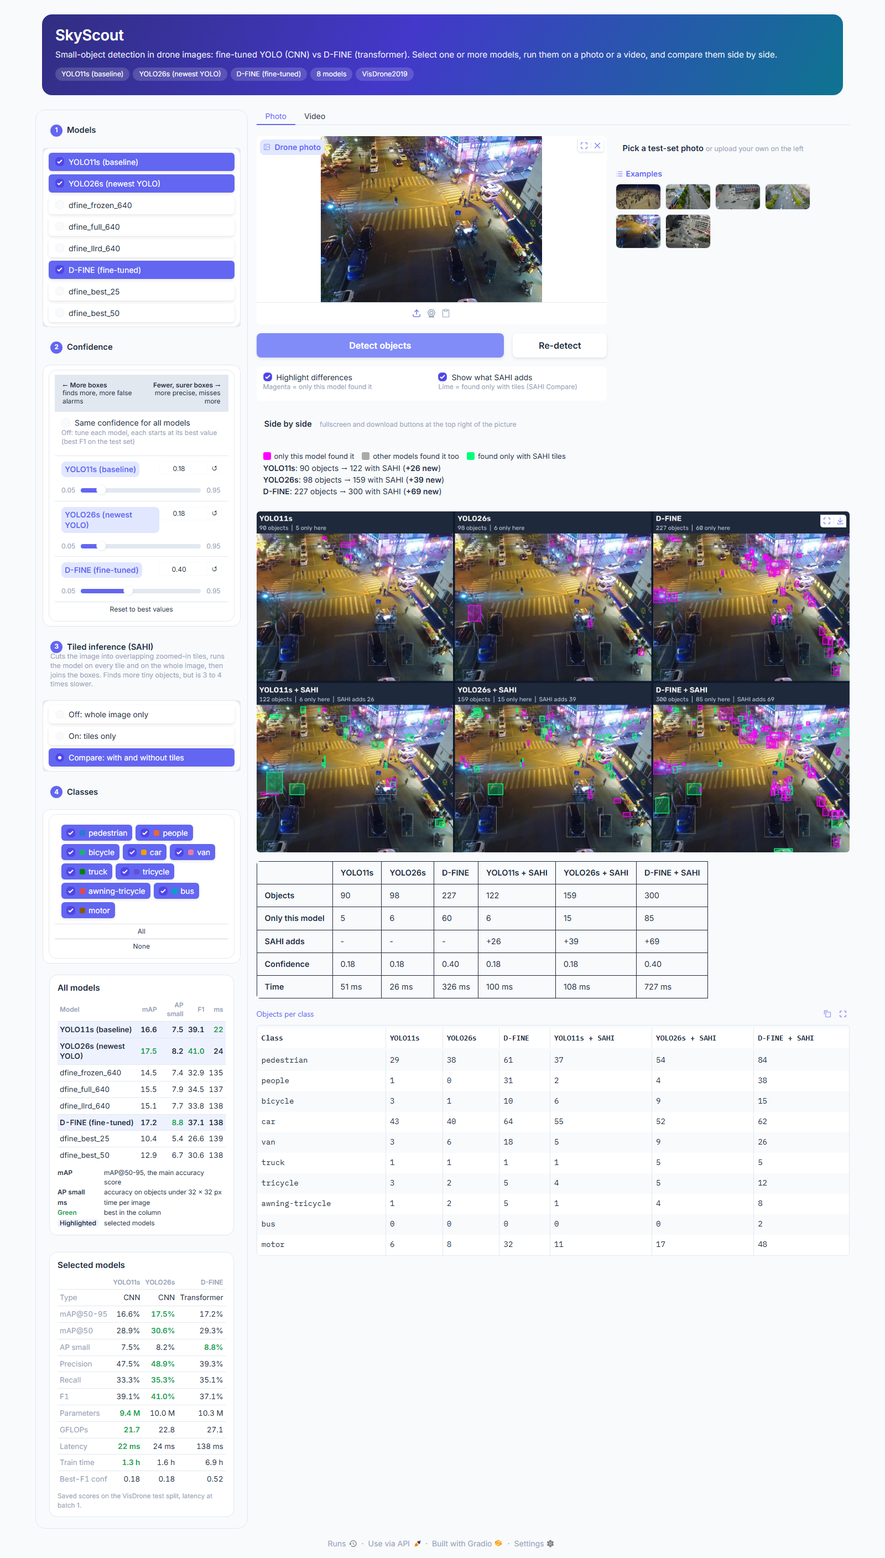
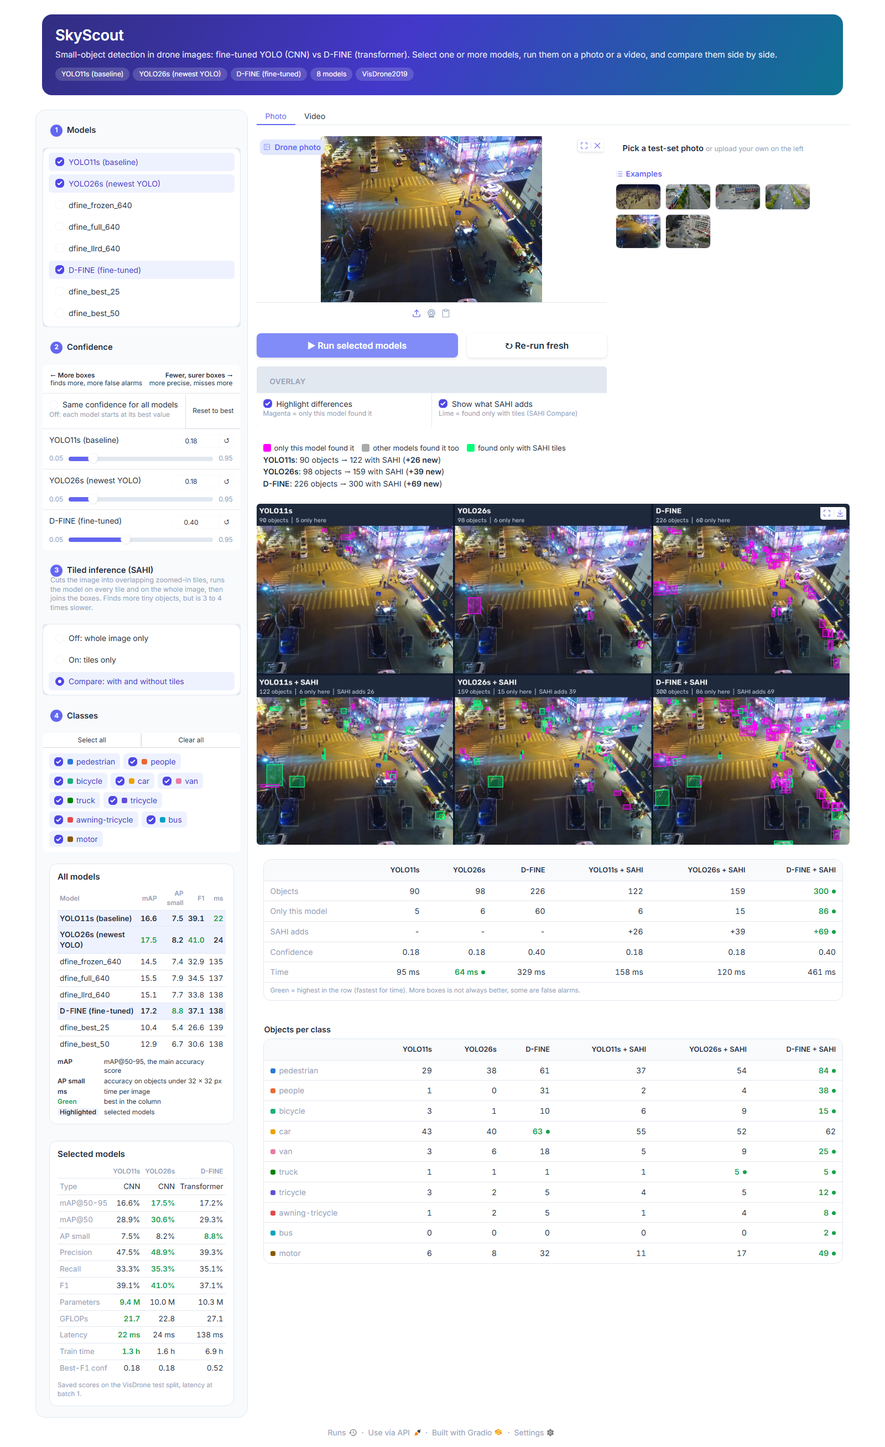
Demo look and feel: single containers, overlay box, result tables with winners
- Confidence and Classes in one container each; Reset to best next to the
  shared-confidence switch, Select all / Clear all above the classes
- Overlay box for the highlight toggles; removed the side-by-side heading
- Result and per-class tables as styled tables, the best model of each row in
  green (highest count, fastest time)
- Buttons renamed: Run selected models / Re-run fresh
- Plain slider and table titles, softer tint for selected choices

diff --git a/skyscout.py b/skyscout.py
@@ -2551,10 +2551,19 @@ def compose_grid(img, runs_f, models, variants, highlight, show_sahi, width):
     return np.vstack([x for r in rows for x in (r, sep)][:-1]), uniq, added
 
 
-def stats_markdown(cols, rows):
-    '''Transposed table: one column per run (same order as the tiles), one row per measure.'''
-    head = '| | ' + ' | '.join(cols) + ' |\n|---|' + '---|' * len(cols) + '\n'
-    return head + ''.join(f'| **{name}** | ' + ' | '.join(vals) + ' |\n' for name, vals in rows)
+def results_html(cols, rows, note=''):
+    '''Table with one column per run (same order as the tiles) and one row per measure. rows = (name, shown values,
+    numbers, 'max' or 'min' or None); the best run of a row is highlighted when there is more than one run.'''
+    head = '<tr><th></th>' + ''.join(f'<th>{c}</th>' for c in cols) + '</tr>'
+    body = ''
+    for name, shown, nums, better in rows:
+        ok = [x for x in nums if x is not None] if nums else []
+        best = (max(ok) if better == 'max' else min(ok)) if better and len(ok) > 1 and len(set(ok)) > 1 else None
+        cells = ''.join(f'<td class="{"win" if best is not None and x == best else ""}">{v}</td>'
+                        for v, x in zip(shown, nums or [None] * len(shown)))
+        body += f'<tr><td>{name}</td>{cells}</tr>'
+    tail = f'<div class="sk-note">{note}</div>' if note else ''
+    return f'<div class="sk-res"><table>{head}{body}</table>{tail}</div>'
 
 
 def iter_frames(video, stride, limit):
@@ -2631,6 +2640,26 @@ table.sk-abbr td.best {color: #16a34a}
 .sk-pick {font-weight: 650; font-size: .92rem; margin: 2px 0 4px}
 .sk-pick span {font-weight: 400; font-size: .78rem; color: var(--body-text-color-subdued)}
 .sk-actions button {min-height: 44px}
+.sk-subtitle {font-weight: 650; font-size: .85rem; padding: 8px 12px 0; letter-spacing: .02em; text-transform: uppercase;
+              color: var(--body-text-color-subdued)}
+/* result tables: soft rows, one column per model, the best model of each row in a green pill */
+.sk-res {border: 1px solid var(--border-color-primary); border-radius: 14px; overflow-x: auto; background: var(--block-background-fill)}
+.sk-res table {width: 100%; border-collapse: collapse; font-size: .88rem; margin: 0; border: 0 !important}
+.sk-res tr {border: 0 !important}
+.sk-res th {padding: 10px 12px; text-align: right; font-weight: 650; font-size: .8rem; border: 0 !important;
+            background: var(--background-fill-secondary); white-space: nowrap}
+.sk-res td {padding: 8px 12px; text-align: right; border: 0 !important; border-top: 1px solid var(--border-color-primary) !important;
+            font-variant-numeric: tabular-nums}
+.sk-res th:first-child, .sk-res td:first-child {text-align: left; color: var(--body-text-color-subdued); font-weight: 500}
+.sk-res tr:hover td {background: var(--background-fill-secondary)}
+.sk-res td.win {color: #16a34a; font-weight: 700}
+.sk-res td.win::after {content: ''; display: inline-block; width: 7px; height: 7px; margin-left: 6px; border-radius: 50%;
+                       background: #16a34a; vertical-align: 1px}
+.sk-res .sk-note {padding: 6px 12px 9px; margin: 0; border-top: 1px solid var(--border-color-primary)}
+.sk-res-title {font-weight: 650; font-size: .9rem; margin: 6px 2px 6px}
+.sk-dot {display: inline-block; width: 9px; height: 9px; border-radius: 3px; margin-right: 7px; vertical-align: 0}
+#sk-conf .block {background: var(--block-background-fill)}
+#sk-conf input[type=range] {accent-color: var(--color-accent)}
 '''
 # one colored square per class in the class filter, same colors as the boxes
 DEMO_CSS += ''.join(f'#sk-classes label:nth-child({k + 1}) span::before {{content: ""; display: inline-block; width: 10px; '
@@ -2673,6 +2702,7 @@ def launch_demo(name=None, share=None):
     mains = [n for n in CFG['report']['main_models'] if n in choices]
     default = [name] if name else (mains or choices[:1])
     stride, limit = max(1, dc['video_stride']), dc['video_max_frames']
+    RUN, RERUN = '▶ Run selected models', '↻ Re-run fresh'
     sahi_modes = [('Off: whole image only', 'Off'), ('On: tiles only', 'On'), ('Compare: with and without tiles', 'Compare')]
     warm = set()
 
@@ -2706,42 +2736,53 @@ def launch_demo(name=None, share=None):
                  f'(<b>+{int(added[(m, True)].sum())} new</b>)' for m in models if (m, True) in added]
         return '<div class="sk-sum">' + '<br>'.join(lines) + '</div>' if lines else ''
 
-    def class_rows(cols, per_run, kind):
+    def class_html(cols, per_run, kind, title):
+        '''Objects per class, one column per run, the run that found the most of a class highlighted.'''
         rows = []
         for k, n in enumerate(NAMES):
-            vals = [per_run[c][k] for c in cols]
-            if any(vals):
-                rows.append([n] + [round(v, 1) if kind == 'avg' else int(v) for v in vals])
-        return pd.DataFrame(rows, columns=['Class'] + cols)
+            nums = [float(per_run[c][k]) for c in cols]
+            if any(nums):
+                shown = [f'{x:.1f}' if kind == 'avg' else str(int(x)) for x in nums]
+                rows.append((f'<i class="sk-dot" style="background:{BOX_COLORS[k]}"></i>{n}', shown, nums, 'max'))
+        if not rows:
+            return ''
+        return f'<div class="sk-res-title">{title}</div>' + results_html(cols, rows)
 
-    def need_run(what):
-        return f'<div class="sk-sum">New settings: click <b>{what}</b> to run them. Settings you already ran show up right away.</div>'
+    def need_run():
+        return (f'<div class="sk-sum">New settings: click <b>{RUN}</b> to run them. '
+                'Settings you already ran show up right away.</div>')
 
     # Photo
 
     def photo_view(image, state, models, mode, classes, highlight, show_sahi, same, shared, *vals):
         if image is None or not models:
-            return None, '', None, '<div class="sk-sum">Pick a photo and at least one model, then click <b>Detect objects</b>.</div>'
+            return None, '', '', f'<div class="sk-sum">Pick a photo and at least one model, then click <b>{RUN}</b>.</div>'
         confs = conf_map(models, same, shared, vals)
         keys = cache_keys(models, mode, confs)
         runs = (state or {}).get('runs', {})
         if any(k not in runs for k in keys):
-            return None, '', None, need_run('Detect objects')
+            return None, '', '', need_run()
         variants = run_variants(mode)
         runs_f = {(m, v): keep_classes(runs[(m, v, c)]['d'], classes) for m, v, c in keys}
         width = {1: 1400, 2: 1000, 3: 820}.get(len(models), 640)
         grid, uniq, added = compose_grid(image, runs_f, models, variants, highlight, show_sahi, width)
         order = [(m, v) for m, v, _ in keys]
         cols = [short_label(*k) for k in order]
-        rows = [('Objects', [str(len(runs_f[k][0])) for k in order])]
+        objs = [len(runs_f[k][0]) for k in order]
+        rows = [('Objects', [str(x) for x in objs], objs, 'max')]
         if uniq:
-            rows.append(('Only this model', [str(int(uniq[k].sum())) if k in uniq else '-' for k in order]))
+            u = [int(uniq[k].sum()) if k in uniq else None for k in order]
+            rows.append(('Only this model', [str(x) if x is not None else '-' for x in u], u, 'max'))
         if added:
-            rows.append(('SAHI adds', [f'+{int(added[k].sum())}' if k in added else '-' for k in order]))
-        rows += [('Confidence', [f'{c:.2f}' for _, _, c in keys]), ('Time', [f'{runs[k]["ms"]:.0f} ms' for k in keys])]
+            a = [int(added[k].sum()) if k in added else None for k in order]
+            rows.append(('SAHI adds', [f'+{x}' if x is not None else '-' for x in a], a, 'max'))
+        ms = [runs[k]['ms'] for k in keys]
+        rows += [('Confidence', [f'{c:.2f}' for _, _, c in keys], None, None),
+                 ('Time', [f'{x:.0f} ms' for x in ms], ms, 'min')]
         per_run = {short_label(m, v): np.bincount(runs_f[(m, v)][2], minlength=NC) for m, v in order}
         info = color_key(uniq, added, show_sahi) + sahi_summary(models, runs_f, added)
-        return grid, stats_markdown(cols, rows), class_rows(cols, per_run, 'count'), info
+        note = 'Green = highest in the row (fastest for time). More boxes is not always better, some are false alarms.'
+        return grid, results_html(cols, rows, note), class_html(cols, per_run, 'count', 'Objects per class'), info
 
     def on_photo(force, image, models, mode, classes, highlight, show_sahi, state, same, shared, *vals, progress=gr.Progress()):
         if image is not None and models:
@@ -2760,12 +2801,12 @@ def launch_demo(name=None, share=None):
 
     def video_view(video, vstate, models, mode, classes, highlight, show_sahi, same, shared, *vals, progress=gr.Progress()):
         if not video or not models:
-            return None, '', None, None, f'<div class="sk-sum">Pick a video and at least one model, then click <b>Detect objects</b>. At most {limit} frames are used.</div>'
+            return None, '', '', None, f'<div class="sk-sum">Pick a video and at least one model, then click <b>{RUN}</b>. At most {limit} frames are used.</div>'
         confs = conf_map(models, same, shared, vals)
         keys = cache_keys(models, mode, confs)
         runs = (vstate or {}).get('runs', {})
         if any(k not in runs for k in keys):
-            return None, '', None, None, need_run('Detect objects')
+            return None, '', '', None, need_run()
         # a finished side-by-side video is reused when the same settings come back
         rkey = (tuple(keys), tuple(classes or []), bool(highlight), bool(show_sahi))
         if rkey in vstate.get('renders', {}) and Path(vstate['renders'][rkey][0]).exists():
@@ -2802,21 +2843,28 @@ def launch_demo(name=None, share=None):
         for old in sorted(out_dir.glob('*_compare_*.mp4'), key=os.path.getmtime)[:-12]:
             with contextlib.suppress(OSError):
                 old.unlink()
-        ms = {c: np.mean(runs[k]['ms']) for k, c in zip(keys, cols)}
-        rows = [('Avg objects per frame', [f'{np.mean(counts[c]):.1f}' for c in cols]),
-                ('Max in one frame', [str(max(counts[c])) for c in cols])]
+        ms = [float(np.mean(runs[k]['ms'])) for k in keys]
+        avg = [float(np.mean(counts[c])) for c in cols]
+        mx = [max(counts[c]) for c in cols]
+        rows = [('Avg objects per frame', [f'{x:.1f}' for x in avg], avg, 'max'),
+                ('Max in one frame', [str(x) for x in mx], mx, 'max')]
         if any(only.values()):
-            rows.append(('Only this model (avg)', [f'{np.mean(only[c]):.1f}' if only[c] else '-' for c in cols]))
+            u = [float(np.mean(only[c])) if only[c] else None for c in cols]
+            rows.append(('Only this model (avg)', [f'{x:.1f}' if x is not None else '-' for x in u], u, 'max'))
         if any(adds.values()):
-            rows.append(('SAHI adds (avg)', [f'+{np.mean(adds[c]):.1f}' if adds[c] else '-' for c in cols]))
-        rows += [('Confidence', [f'{c:.2f}' for _, _, c in keys]),
-                 ('Time per frame', [f'{ms[c]:.0f} ms' for c in cols]), ('Speed', [f'{1000 / ms[c]:.1f} FPS' for c in cols])]
-        table = class_rows(cols, {c: per_class[c] / max(n, 1) for c in cols}, 'avg')
+            a = [float(np.mean(adds[c])) if adds[c] else None for c in cols]
+            rows.append(('SAHI adds (avg)', [f'+{x:.1f}' if x is not None else '-' for x in a], a, 'max'))
+        fps_ = [1000 / x for x in ms]
+        rows += [('Confidence', [f'{c:.2f}' for _, _, c in keys], None, None),
+                 ('Time per frame', [f'{x:.0f} ms' for x in ms], ms, 'min'),
+                 ('Speed', [f'{x:.1f} FPS' for x in fps_], fps_, 'max')]
+        table = class_html(cols, {c: per_class[c] / max(n, 1) for c in cols}, 'avg', 'Objects per class (average per frame)')
         uniq_any = {k: 1 for k in order if only[short_label(*k)]}
         added_any = {k: 1 for k in order if adds[short_label(*k)]}
         info = color_key(uniq_any, added_any, show_sahi) + \
             f'<div class="sk-sum">{n} frames. Counts are per frame, the same object in two frames counts twice.</div>'
-        out = (str(out_path), stats_markdown(cols, rows), table, pd.DataFrame(plot), info)
+        note = 'Green = highest in the row (fastest for time). More boxes is not always better, some are false alarms.'
+        out = (str(out_path), results_html(cols, rows, note), table, pd.DataFrame(plot), info)
         vstate.setdefault('renders', {})[rkey] = out
         return out
 
@@ -2863,25 +2911,26 @@ def launch_demo(name=None, share=None):
                 models = gr.CheckboxGroup([(demo_label(n), n) for n in choices], value=default, show_label=False,
                                           elem_id='sk-models', elem_classes='sk-box')
                 gr.HTML('<div class="sk-step"><b>2</b>Confidence</div>')
-                with gr.Group(elem_classes='sk-box'):
+                with gr.Group(elem_id='sk-conf'):
                     gr.HTML('<div class="sk-scale"><span>&larr; <b>More boxes</b><br>finds more, more false alarms</span>'
                             '<span><b>Fewer, surer boxes</b> &rarr;<br>more precise, misses more</span></div>')
-                    same = gr.Checkbox(value=False, label='Same confidence for all models',
-                                       info='Off: tune each model, each starts at its best value (best F1 on the test set)')
+                    with gr.Row(equal_height=True):
+                        same = gr.Checkbox(value=False, label='Same confidence for all models', scale=3,
+                                           info='Off: each model starts at its best value')
+                        reset = gr.Button('Reset to best', size='sm', scale=1, min_width=90)
                     shared = gr.Slider(0.05, 0.95, value=best_conf(default[0]), step=0.01, label='All models', visible=False)
                     sliders = [gr.Slider(0.05, 0.95, value=best_conf(n), step=0.01, label=demo_label(n), visible=n in default)
                                for n in choices]
-                    reset = gr.Button('Reset to best values', size='sm')
                 gr.HTML('<div class="sk-step"><b>3</b>Tiled inference (SAHI)</div>'
                         '<div class="sk-desc">Cuts the image into overlapping zoomed-in tiles, runs the model on every tile '
                         'and on the whole image, then joins the boxes. Finds more tiny objects, but is 3 to 4 times slower.</div>')
                 sahi_mode = gr.Radio(sahi_modes, value='Off', show_label=False, elem_id='sk-sahi', elem_classes='sk-box')
                 gr.HTML('<div class="sk-step"><b>4</b>Classes</div>')
-                with gr.Group(elem_classes='sk-box'):
-                    classes = gr.CheckboxGroup(NAMES, value=NAMES, show_label=False, elem_id='sk-classes')
+                with gr.Group():
                     with gr.Row():
-                        all_btn = gr.Button('All', size='sm')
-                        none_btn = gr.Button('None', size='sm')
+                        all_btn = gr.Button('Select all', size='sm')
+                        none_btn = gr.Button('Clear all', size='sm')
+                    classes = gr.CheckboxGroup(NAMES, value=NAMES, show_label=False, elem_id='sk-classes')
                 table_html = gr.HTML(models_table_html(choices, default))
                 card = gr.HTML(selected_table_html(default))
             with gr.Column(scale=3):
@@ -2891,41 +2940,43 @@ def launch_demo(name=None, share=None):
                         with gr.Column(scale=3):
                             img_in = gr.Image(type='numpy', label='Drone photo', height=340)
                             with gr.Row(elem_classes='sk-actions'):
-                                img_btn = gr.Button('Detect objects', variant='primary', scale=3)
-                                img_redo = gr.Button('Re-detect', variant='secondary', scale=1)
-                            with gr.Row():
-                                p_high = gr.Checkbox(label='Highlight differences', info='Magenta = only this model found it')
-                                p_sahi = gr.Checkbox(label='Show what SAHI adds', info='Lime = found only with tiles (SAHI Compare)')
+                                img_btn = gr.Button(RUN, variant='primary', scale=3)
+                                img_redo = gr.Button(RERUN, variant='secondary', scale=2)
+                            with gr.Group():
+                                gr.HTML('<div class="sk-subtitle">Overlay</div>')
+                                with gr.Row():
+                                    p_high = gr.Checkbox(label='Highlight differences', info='Magenta = only this model found it')
+                                    p_sahi = gr.Checkbox(label='Show what SAHI adds', info='Lime = found only with tiles (SAHI Compare)')
                         with gr.Column(scale=2):
                             gr.HTML('<div class="sk-pick">Pick a test-set photo <span>or upload your own on the left</span></div>')
                             if img_examples:
                                 gr.Examples(img_examples, inputs=[img_in], label=None, examples_per_page=12)
-                    gr.HTML('<div class="sk-step">Side by side <span class="sk-hint">fullscreen and download buttons at the top right of the picture</span></div>')
-                    p_info = gr.HTML('<div class="sk-sum">Pick a photo and at least one model, then click <b>Detect objects</b>.</div>')
+                    p_info = gr.HTML(f'<div class="sk-sum">Pick a photo and at least one model, then click <b>{RUN}</b>.</div>')
                     p_grid = gr.Image(show_label=False, interactive=False, buttons=['fullscreen', 'download'])
-                    p_stats = gr.Markdown(elem_id='sk-stats')
-                    p_table = gr.Dataframe(label='Objects per class', interactive=False)
+                    p_stats = gr.HTML()
+                    p_table = gr.HTML()
                 with gr.Tab('Video'):
                     vstate = gr.State({})
                     with gr.Row(equal_height=False):
                         with gr.Column(scale=3):
                             vid_in = gr.Video(label='Drone video', height=340, elem_classes='sk-sync')
                             with gr.Row(elem_classes='sk-actions'):
-                                vid_btn = gr.Button('Detect objects', variant='primary', scale=3)
-                                vid_redo = gr.Button('Re-detect', variant='secondary', scale=1)
-                            with gr.Row():
-                                v_high = gr.Checkbox(label='Highlight differences', info='Magenta = only this model found it')
-                                v_sahi = gr.Checkbox(label='Show what SAHI adds', info='Lime = found only with tiles (SAHI Compare)')
+                                vid_btn = gr.Button(RUN, variant='primary', scale=3)
+                                vid_redo = gr.Button(RERUN, variant='secondary', scale=2)
+                            with gr.Group():
+                                gr.HTML('<div class="sk-subtitle">Overlay</div>')
+                                with gr.Row():
+                                    v_high = gr.Checkbox(label='Highlight differences', info='Magenta = only this model found it')
+                                    v_sahi = gr.Checkbox(label='Show what SAHI adds', info='Lime = found only with tiles (SAHI Compare)')
                         with gr.Column(scale=2):
                             gr.HTML('<div class="sk-pick">Pick a sample video <span>or upload your own on the left</span></div>')
                             if videos:
                                 gr.Examples([[str(v)] for v in videos], inputs=[vid_in], label=None)
-                    gr.HTML('<div class="sk-step">Side by side <span class="sk-hint">plays and seeks together with the original, fullscreen in the player</span></div>')
-                    v_info = gr.HTML(f'<div class="sk-sum">Pick a video and at least one model, then click <b>Detect objects</b>. At most {limit} frames are used.</div>')
+                    v_info = gr.HTML(f'<div class="sk-sum">Pick a video and at least one model, then click <b>{RUN}</b>. At most {limit} frames are used.</div>')
                     vid_out = gr.Video(show_label=False, interactive=False, elem_classes='sk-sync', buttons=['download'])
-                    v_stats = gr.Markdown(elem_id='sk-stats')
-                    with gr.Row():
-                        v_table = gr.Dataframe(label='Objects per class (average per frame)', interactive=False)
+                    v_stats = gr.HTML()
+                    with gr.Row(equal_height=False):
+                        v_table = gr.HTML()
                         v_plot = gr.LinePlot(x='time_s', y='count', color='run', label='Objects per frame',
                                              x_title='Time (s)', y_title='Count')
 
@@ -2979,6 +3030,13 @@ def launch_demo(name=None, share=None):
     _DEMO.append(app)
     theme = gr.themes.Soft(primary_hue='indigo', secondary_hue='cyan', neutral_hue='slate', radius_size='lg',
                            font=[gr.themes.GoogleFont('Inter'), 'ui-sans-serif', 'system-ui', 'sans-serif'])
+    # plain titles and a light tint for selected choices instead of solid purple chips
+    theme = theme.set(block_title_background_fill='none', block_title_padding='0', block_title_text_color='*body_text_color',
+                      block_title_text_color_dark='*body_text_color', block_title_text_weight='500',
+                      checkbox_label_background_fill_selected='*primary_50', checkbox_label_text_color_selected='*primary_700',
+                      checkbox_label_border_color_selected='*primary_300', checkbox_label_background_fill_selected_dark='*primary_950',
+                      checkbox_label_text_color_selected_dark='*primary_100', checkbox_label_border_color_selected_dark='*primary_500',
+                      checkbox_label_shadow='none')
     # Recommended: on the server keep the default address and open it through an SSH tunnel
     return app.launch(share=share, server_port=dc['server_port'], theme=theme, css=DEMO_CSS, head=SYNC_JS,
                       allowed_paths=[str(data_dir()), str(DOWNLOADS / 'samples'), str(SAMPLES), str(RESULTS)])

diff --git a/README.md b/README.md
@@ -278,12 +278,12 @@ flowchart LR
 ```
 
 - **1 Models:** tick one or more. One click runs all of them.
-- **2 Confidence:** one slider per selected model, each starting at that model's best value (best F1 on the test set, the score scales differ between models). Tick **Same confidence for all models** for one shared slider, **Reset to best values** puts them back. Left = more boxes (finds more, more false alarms), right = fewer, surer boxes (more precise, misses more).
+- **2 Confidence:** one slider per selected model, each starting at that model's best value (best F1 on the test set, the score scales differ between models). Tick **Same confidence for all models** for one shared slider, **Reset to best** puts them back. Left = more boxes (finds more, more false alarms), right = fewer, surer boxes (more precise, misses more).
 - **3 Tiled inference (SAHI):** cuts the image into overlapping zoomed-in tiles, runs the model on each tile and on the whole image, then joins the boxes. Off, on, or **Compare**, which runs every model with and without tiles (second row of the picture).
 - **4 Classes:** the box colors. Turn classes off to hide them everywhere (pictures, counts, comparisons) without running the models again.
 - Under the settings: a table of all models (best value per column in green) and every score of the selected models side by side.
-- **Side by side:** one column per model, a label above each window ("D-FINE + SAHI: 107 objects | 17 only here | SAHI adds 25") and a table below with one column per model in the same order. Fullscreen and download buttons sit at the top right of the picture (the video player has its own fullscreen).
-- **Saved results:** every result is kept per model, SAHI setting and confidence. Going back to a setting you already ran shows it at once (also the drawn video), only new settings need **Detect objects**. **Re-detect** runs everything again.
+- **Side by side:** one column per model, a label above each window ("D-FINE + SAHI: 107 objects | 17 only here | SAHI adds 25") and a table below with one column per model in the same order, the best model of each row in green. Fullscreen and download buttons sit at the top right of the picture (the video player has its own fullscreen).
+- **Saved results:** every result is kept per model, SAHI setting and confidence. Going back to a setting you already ran shows it at once (also the drawn video), only new settings need **Run selected models**. **Re-run fresh** ignores the saved results and runs everything again.
 - **Highlight differences:** magenta = boxes only that model found, compared with the other models in the same row (no box of theirs overlaps it by 50% or more). Shared boxes turn grey.
 - **Show what SAHI adds:** lime = boxes found with tiles but not on the full image by the same model.
 - **Video:** the side-by-side result is one video, so all windows always play together, and the original plays, pauses and seeks together with it. The line chart shows objects per frame per model. Counts are per frame (no tracking), so a car seen in 10 frames counts 10 times.
